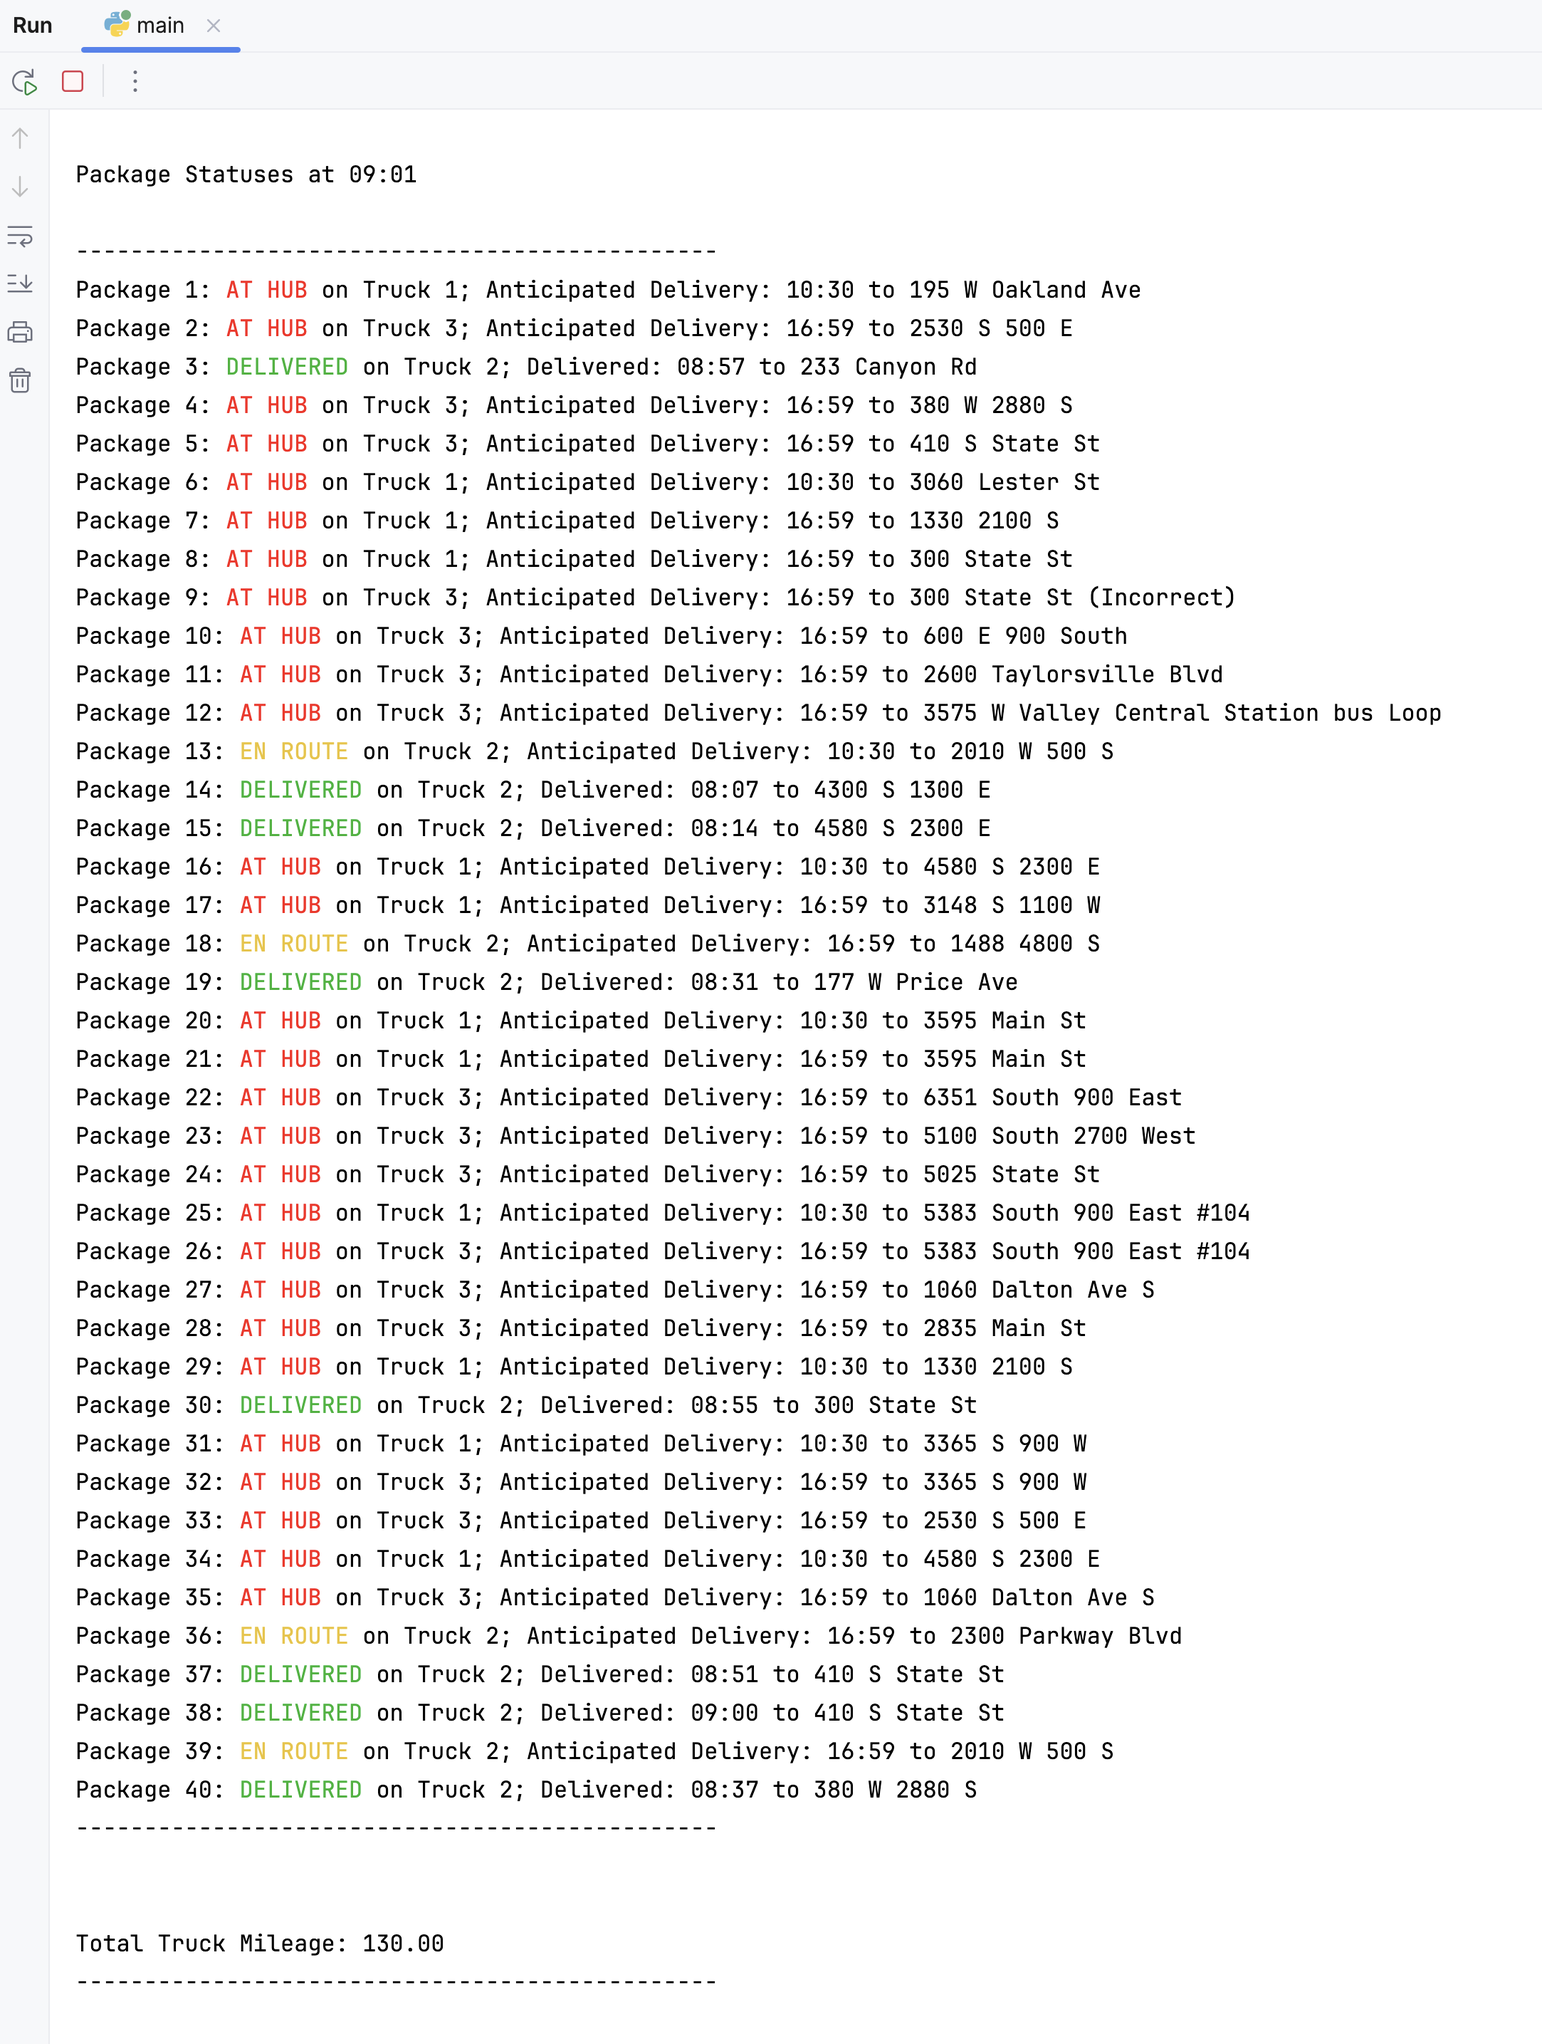
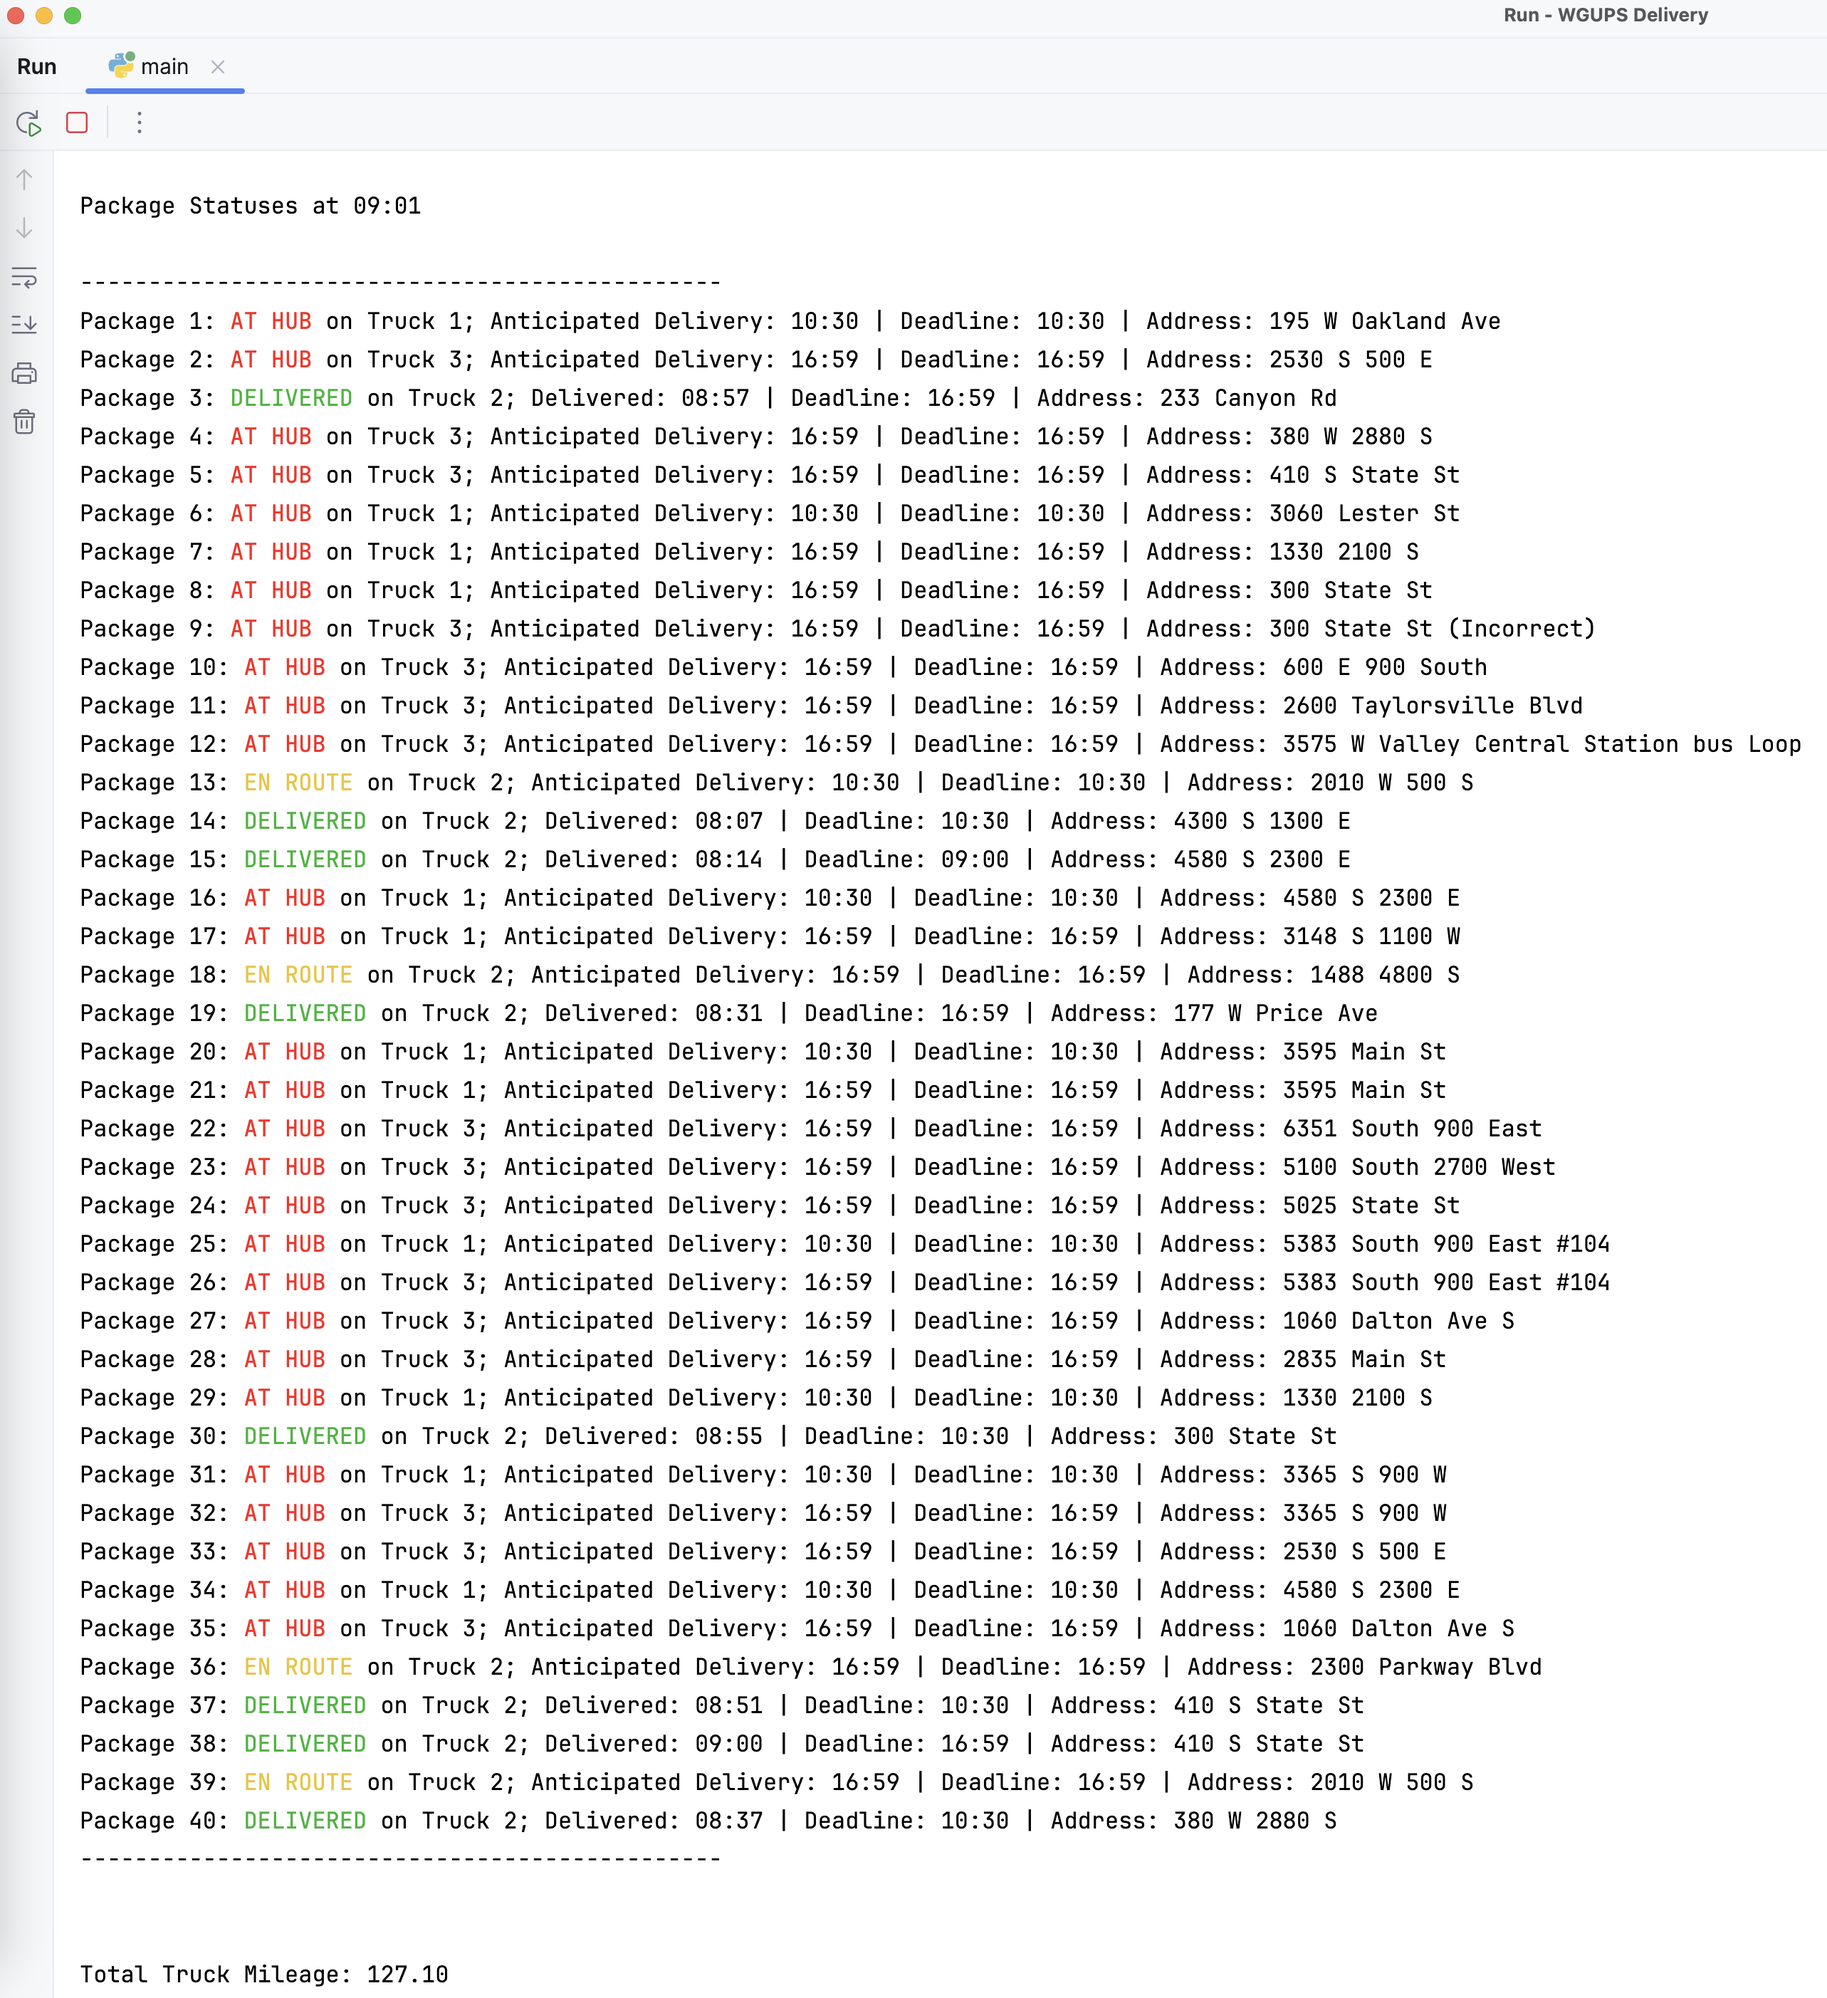
final files v2 (fixed omission in info required for printing all package data)

diff --git a/app_wgups/ui.py b/app_wgups/ui.py
@@ -286,7 +286,6 @@ def lookup_and_print_package_by_ID(package_id, hash_table, parsed_time):
 def display_all_package_statuses(hash_table, trucks, check_time):
     """
     Displays the status of all packages at a specified time.
-
     This function retrieves and prints the status of all packages based on their
     delivery progress at the given time. It also calculates and displays the total
     mileage of all trucks.
@@ -296,7 +295,6 @@ def display_all_package_statuses(hash_table, trucks, check_time):
         trucks (list): A list of Truck objects to retrieve mileage information.
         check_time (str or datetime): The time to check package statuses. Accepts
                                       a string in HH:MM format or a datetime object.
-
     Returns:
         None: The function prints the package statuses and total truck mileage
               to the console.
@@ -329,7 +327,8 @@ def display_all_package_statuses(hash_table, trucks, check_time):
 
             package_status_list.append((
                 pkg.package_id,
-                f"Package {pkg.package_id}: {status_colored} on Truck {truck_number}; {delivery_time_label}: {delivery_time} to {address}"
+                f"Package {pkg.package_id}: {status_colored} on Truck {truck_number}; "
+                f"{delivery_time_label}: {delivery_time} | Deadline: {pkg.deadline.strftime('%H:%M')} | Address: {address}"
             ))
 
     package_status_list.sort(key=lambda x: x[0] )
